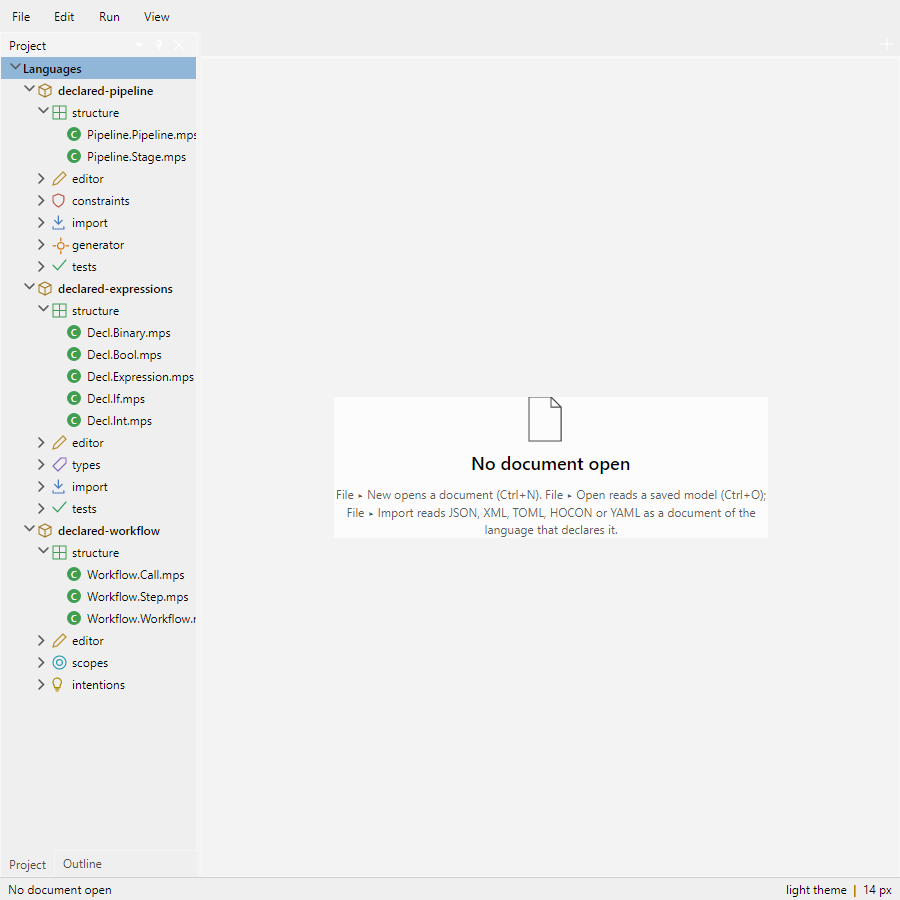
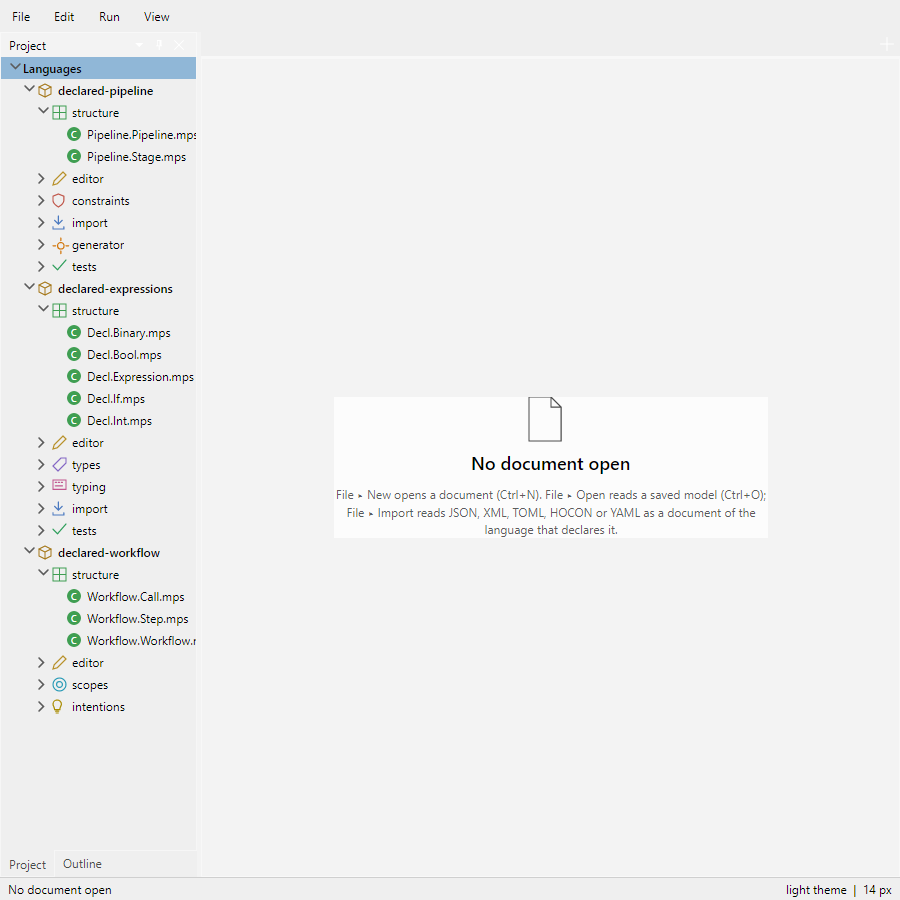
feat: show the typing aspect in the project explorer
An aspect nobody can find is an aspect nobody edits. The explorer lists a fixed set of aspect folders, so a
typing/ folder would have been invisible even though every other aspect is a row - and the file rows under it
would have fallen back to the unknown-aspect mark.

The folder joins the list where the editor documents it (after scopes), and the aspect gets the three marks the
others have: a keyboard glyph, a colour no other aspect uses, and the letter P for the files under it, because a
typing rule is a predicate on the typed text and I, C and E were taken by the kinds a reader meets first.

The picture is regenerated rather than edited: the harness renders the shipping window, and the folder row is
the whole difference.

Changed region(s): [[0.0311, 0.5289, 0.2178, 0.8089]]

diff --git a/src/Projectional.Workbench/Project/ProjectIcons.cs b/src/Projectional.Workbench/Project/ProjectIcons.cs
@@ -50,6 +50,7 @@ internal static class ProjectIcons
         ["types"] = "M9.5,2.5 H13.5 V6.5 L7,13 L3,9 Z",
         ["constraints"] = "M8,2 L13,4 V8 C13,11 8,14 8,14 C8,14 3,11 3,8 V4 Z",
         ["scopes"] = "M8,2.5 A5.5,5.5 0 1 0 8,13.5 A5.5,5.5 0 1 0 8,2.5 M8,5.5 A2.5,2.5 0 1 0 8,10.5 A2.5,2.5 0 1 0 8,5.5",
+        ["typing"] = "M2.5,4 H13.5 V12 H2.5 Z M4.5,6 H5.5 M7,6 H8 M9.5,6 H10.5 M4.5,9 H10.5",
         ["intentions"] = "M5.5,11 C5.5,8.5 4,7.5 4,5.8 A4,4 0 1 1 12,5.8 C12,7.5 10.5,8.5 10.5,11 Z M6.5,12.5 H9.5 M7,14.2 H9",
         ["import"] = "M8,2 V9 M4.5,6 L8,9.5 L11.5,6 M3,12 V14 H13 V12",
         ["generator"] = "M8,5.5 A2.5,2.5 0 1 0 8,10.5 A2.5,2.5 0 1 0 8,5.5 M8,2 V4 M8,12 V14 M2,8 H4 M12,8 H14",
@@ -68,6 +69,7 @@ internal static class ProjectIcons
         ["types"] = Color.Parse("#8467C4"),
         ["constraints"] = Color.Parse("#C0574B"),
         ["scopes"] = Color.Parse("#2F9DB8"),
+        ["typing"] = Color.Parse("#C1568F"),
         ["intentions"] = Color.Parse("#A98C00"),
         ["import"] = Color.Parse("#4A79C0"),
         ["generator"] = Color.Parse("#D2760A"),
@@ -78,6 +80,11 @@ internal static class ProjectIcons
     /// The letter a file's badge shows: the kind of definition that aspect holds, which is what a reader looks for
     /// under a folder rather than which folder it is in.
     /// </summary>
+    /// <remarks>
+    /// <c>P</c> is a typing rule, which is a predicate on the typed text; <c>R</c> is a constraint rule, <c>S</c> a
+    /// scope rule and <c>M</c> an importer, because <c>I</c>, <c>C</c> and <c>E</c> were taken by the kinds a reader
+    /// meets first.
+    /// </remarks>
     private static readonly Dictionary<string, string> Badges = new(StringComparer.Ordinal)
     {
         ["structure"] = "C",
@@ -85,6 +92,7 @@ internal static class ProjectIcons
         ["types"] = "T",
         ["constraints"] = "R",
         ["scopes"] = "S",
+        ["typing"] = "P",
         ["intentions"] = "I",
         ["import"] = "M",
         ["generator"] = "G",

diff --git a/tests/Projectional.Core.Tests/ProjectExplorerTests.cs b/tests/Projectional.Core.Tests/ProjectExplorerTests.cs
@@ -180,6 +180,30 @@ public sealed class ProjectExplorerTests
         Assert.False(importer.HasChildren);
     }
 
+    [Fact]
+    public void ATypingRuleHasItsOwnNodeAndTheLetterOfTheTypingAspect()
+    {
+        // A typing rule is an aspect like the importer: the author edits it in the app, so the tree has to lead there.
+        var language = LanguageProject.Open(Path.Combine(AppContext.BaseDirectory, "Expressions"), out var error)
+            ?? throw new InvalidOperationException(error);
+
+        Assert.True(language.HasTyping);
+
+        var rows = ProjectExplorer.Of([], [language], NothingCollapsed);
+
+        var typing = Assert.Single(rows, row => row.Kind == ProjectNode.Folder && row.Text == LanguageProject.TypingFolder);
+
+        Assert.True(typing.HasChildren);
+        Assert.Equal(LanguageProject.TypingFolder, typing.Icon);
+        Assert.False(typing.HasBadge);
+
+        var rules = rows.Where(row => row.Kind == ProjectNode.File && row.Folder == LanguageProject.TypingFolder).ToList();
+
+        Assert.Equal(2, rules.Count);
+        Assert.All(rules, rule => Assert.Equal(ProjectIcons.BadgeOf(LanguageProject.TypingFolder), rule.Badge));
+        Assert.Contains(rules, rule => rule.Text == "Decl.Int.mps");
+    }
+
     private static LanguageProject Language() =>
         LanguageProject.Open(Path.Combine(AppContext.BaseDirectory, "Declared"), out var error)
         ?? throw new InvalidOperationException(error);

diff --git a/src/Projectional.Workbench/Project/ProjectExplorer.cs b/src/Projectional.Workbench/Project/ProjectExplorer.cs
@@ -37,6 +37,7 @@ internal static class ProjectExplorer
         LanguageProject.TypesFolder,
         LanguageProject.ConstraintsFolder,
         LanguageProject.ScopesFolder,
+        LanguageProject.TypingFolder,
         LanguageProject.IntentionsFolder,
         LanguageProject.ImportFolder,
         LanguageProject.GeneratorFolder,

diff --git a/docs/implemented.md b/docs/implemented.md
@@ -256,6 +256,7 @@ Not done in M5: live preview, bootstrap and the language browser.
 | Text import, slice I0: the intake contract beside the other language-level statements - an importer fills a model the host created inside one transaction, so a successful import is one undo step and one change event, and a refusal or a throw leaves the model byte-identical. Diagnostics name a line and a column in the imported text, never a `NodeId`, because a syntax error has no node | `Projectional.Language/Import/` (`ITextImporter`, `ImportResult`, `ImportDiagnostic`, `ImportSeverity`) | `TextImportTests` (one undo step and one change event, a refusal and a mid-way throw both leaving the model byte-identical, the refusal carrying no roots, a warning travelling beside a success) |
 | Constraints as a definition language: a language's own rules are models, lowered into the same `IConstraint` a language written in C# declares, loaded from a `constraints` folder. A rule draws as the sentence it means - `rule for <concept>` says what it is about, and `when <what it checks>` and `then <severity> "<message>" as <code>` are indented beneath it, so the condition is never separated from the word that makes it one | `Projectional.ConstraintRules/`, `LanguageProject.Constraints`, `ConstraintNotations` | `ConstraintLoweringTests` (incl. parity with `Projectional.Checks`), `ConstraintLanguageTests` (a written rule draws its three lines, an unwritten one draws every cell with the placeholder or default it holds), `LanguageProjectConstraintsTests`, `DeclaredSampleLanguageTests` |
 | Scopes as a definition language: a `scopes` folder names, per concept, which reference slot sees which place (`local`, `ancestors`, `model`, `project`, `everywhere`) and optionally which concept, lowered into the same `NamedScopeProvider` a C# language installs. Unnamed slots keep the default chain, two rules for one slot are refused rather than merged, and the shell hands an opened language's providers to its documents | `Projectional.ScopeRules/` (`ScopeLanguage`, `ScopeLowering`, `ScopePlaces`, `Notation/ScopeNotations`), `Projectional.Semantics/Scopes/` (`ScopePlace`, `ScopeBinding`, `NamedScopeProvider`, `ScopeWalk`), `LanguageProject.Scopes`, `DocumentTab.Scopes` | `ScopeLoweringTests` (a rule becomes a provider, two references of one concept share one, and the refusals for an unknown concept, a non-reference slot, an unknown target and a duplicate rule), `NamedScopeProviderTests` ("everywhere, no target" equals the default chain entry for entry, a target narrows to one concept, an unnamed slot falls back), `DefaultScopeProviderTests` (unchanged, on the shared walk), `LanguageProjectScopesTests` (a `scopes` folder loads into the language's providers, resolves from a real model, and refuses a rule naming a property at load) |
+| Typing rules as a definition language: a `typing/` folder says, per concept, what a burst of typing into an empty slot creates - which concept, how the text is recognised, the text it is recognised by, and the property it lands in - lowered into the same `TypingRuleRegistry` a C# language fills with `Add`. A model cannot hold a predicate, so the four claim symbols are exactly the predicates the shipped languages write by hand (`digits`, `name`, `starts with`, `any of`); a claim that needs a text without one, or carries a text it never reads, is refused, as are an unknown concept, a slot that is not a property and two rules for one concept. The text cell is drawn only for the two claims that read one, so `digits` does not show a placeholder for a value nobody writes. A language without the aspect keeps the shell's rules, which is what every language had before it existed, and **File ▸ New ▸ Document** and **File ▸ Import…** now hand a document the typing of the language it belongs to | `Projectional.TypingRules/` (`TypingLanguage`, `TypingLowering`, `TypingClaims`, `TypingConceptKeys`, `Notation/TypingNotations`), `LanguageProject.Typing`/`.HasTyping`, `WorkbenchLanguage.TypingFor`, `samples/declared-expressions/typing/` | `TypingLoweringTests` (each claim's predicate, a concept with no property still claiming, and the refusals for an unknown concept, a child or reference named as the property, a text a claim does not read, an empty prefix, an empty word list, a duplicate rule and a document that is not a rule), `LanguageProjectTypingTests` (a `typing` folder loads into the language, a language without one declares none, and a rule naming a missing property is refused when the folder loads), `WorkbenchLanguageTests.ADocumentOfAnOpenedLanguageIsTypedByThatLanguage`/`ALanguageWithoutATypingAspectKeepsTheShellsRules`/`TheDeclaredSampleSaysWhichNodeATypedTextCreates`, `DeclaredExpressionsTests.TheSampleTypingRulesMakeATypedDigitBecomeALiteral`/`TheSampleTypingRulesClaimTheWordsItsBooleanUnderstands` (a digit and the word `false` typed into empty slot of the sample's own document create a `Decl.Int` and a `Decl.Bool` through the sample's own notation), `DeclaredExpressionsTests.EveryDefinitionDocumentSavesBackByteIdentically` (the sample's rules are the writer's own output), `ProjectExplorerTests.ATypingRuleHasItsOwnNodeAndTheLetterOfTheTypingAspect` |
 | Intentions as a definition language: an `intentions` folder declares, per concept, what an entry says and one of seven bodies - a wrap with the values the wrapper is born with, a property value written on the node, a named concept in the empty slot at the caret, a sibling inserted beside it, a delete (marked destructive), a move to one of four places, or a replace with another concept (also destructive) - lowered into the same `Intention` a hand-written package registers, and registered by the shell for a document of that language. A wrapper whose slot could never accept the subject, a preset naming no property of it, and two entries with one label are refused at load | `Projectional.IntentionRules/` (`IntentionLanguage`, `IntentionLowering`, `DeclaredIntentions`, `Notation/IntentionNotations`), `LanguageProject.Intentions`, `DocumentTab.Intentions`, `WorkbenchLanguage` | `IntentionLoweringTests`, `IntentionNotationsTests` (the declared negation is offered where the hand-written one is and produces the same `Unary` with `operator = "!"`; a rule is not offered off its concept; the load-time refusals), `LanguageProjectIntentionsTests` (an `intentions` folder loads into the language, and a wrap the language cannot honour is refused when the folder loads), `IntentionInsertTests` (an insert is offered on its concept, and a side the language does not have is refused by the model), `IntentionCatalogueTests` (a delete is destructive and removes the node, a move puts it where the rule says, and a direction outside the four symbols is refused by the model), `IntentionReplaceTests` (a replace is offered as destructive, and a replacement that is the node's own concept or an unknown concept is refused at load), `DeclaredWorkflowSampleTests` (the sample's two declared intentions are offered at a step with the safety each declares), `IntentionInsertChildTests` (an insert fills the empty slot at the caret with the concept the rule names, is absent where the slot is filled, and refuses an unknown concept at load), `AddChildActionTests` (the named concept is created rather than the slot's default, and a filled slot, a concept the slot refuses and an unknown slot are all rejected) |
 | Tests of a language, as data (slice T1): a `tests/` folder beside the aspect folders holds one declarative test per document, written in the test language (`Testing.Test` with a document and one assertion), and `TestRunner` runs the folder - reading each document, lowering it, and answering a `TestReport` whose rows carry the assertion and the actual-versus-expected text so a failure reads as a diff. The three assertions this slice delivered: `Testing.RoundTrips` asserts invariant 7 (serialise, read back, serialise again, compare the text), `Testing.Draws` asserts the document's notation at a stated width against expected lines held as child nodes, and `Testing.Findings` asserts which findings the document's own constraints report, each row naming a code, a severity and optionally the slot. A language without a `tests` folder answers an empty report; a document under test that is gone is a failed row naming it; a test document that does not lower is a broken suite and throws. The xunit bridge runs the shipped sample's folder | `Projectional.Testing/` (`TestingConceptKeys`, `TestingLanguage`, `Notation/TestingNotations`, `TestingLowering`, `LanguageTest`, `ExpectedFinding`, `TestResult`, `TestReport`, `TestRunner`), `samples/declared-pipeline/tests/round-trips.mps`, `draws.mps`, `reports.mps` | `LanguageTestsAsDataTests` (the sample's shipped tests pass, a language without the folder answers nothing, a document that is gone is a failed row, the notation draws one sentence, a test that does not lower is refused, a document that is not a test is refused, a drawing that differs carries both texts, a findings row that matches passes and one that misses fails) |
 | Tests of a language, as data (slice T2): the two assertions that need a layer above the model - `Testing.Generates` names one of the generators the language declares and pins its text line by line (an undeclared name is a failed row listing the names it could have meant, and a run that stopped mid-document reports the failure instead of half a file), and `Testing.Evaluates` runs the interpreter over the rules the caller supplies and pins one text - the value's display when the run succeeded, the failure's message when it did not. Because a language project carries no evaluation aspect, `TestRunner.Run` takes the `EvaluationRegistry`; an `evaluates` assertion run without one is a failed row saying so, and the other assertions still report. The `name=value` parser moved down from `Projectional.Avalonia` into `Projectional.Language` (`VariableInputs`), so the editor's run box and a test read a value the same way, and a variables line that is not pairs is refused at lowering like any other slot | `Projectional.Testing/TestingLowering` (two branches and the variables check), `Projectional.Testing/TestRunner` (two branches, the optional `EvaluationRegistry`, the single-root rule), `Projectional.Language/Evaluation/VariableInputs`, `Projectional.Avalonia/Run/RunInputs` (now a delegation), `samples/declared-pipeline/tests/generates.mps` | `LanguageTestsAsDataTests` (a generation that differs carries both texts, an undeclared generator names the one the language does declare, an evaluation passes with the rules the caller supplies, an evaluation without rules is a failed row saying what it needed, a run that cannot evaluate shows the failure in the diff, the variables line is read the way the run box reads it, a variables line that is not pairs is refused, the two new assertions draw as sentences), `RunInputsTests` and `InterpreterTests` (unchanged, proving the parser still answers what it did) |
